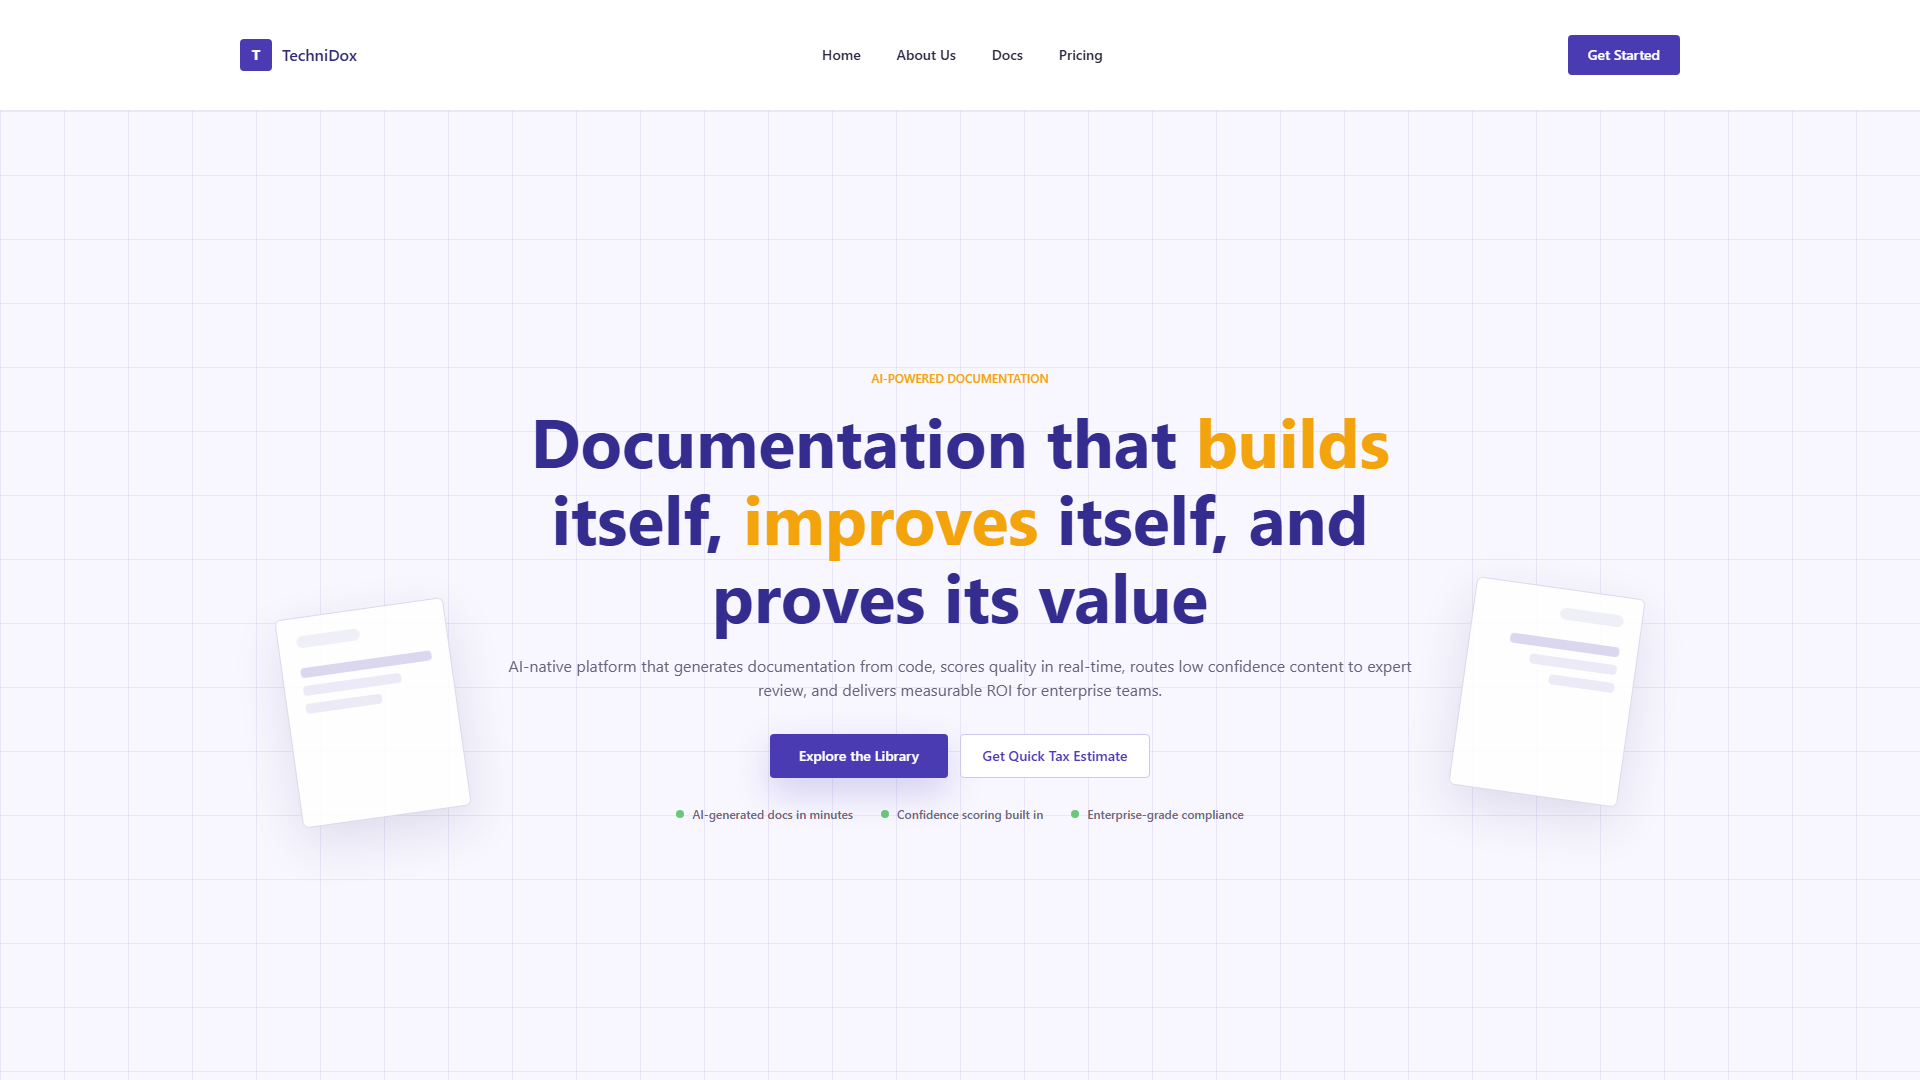
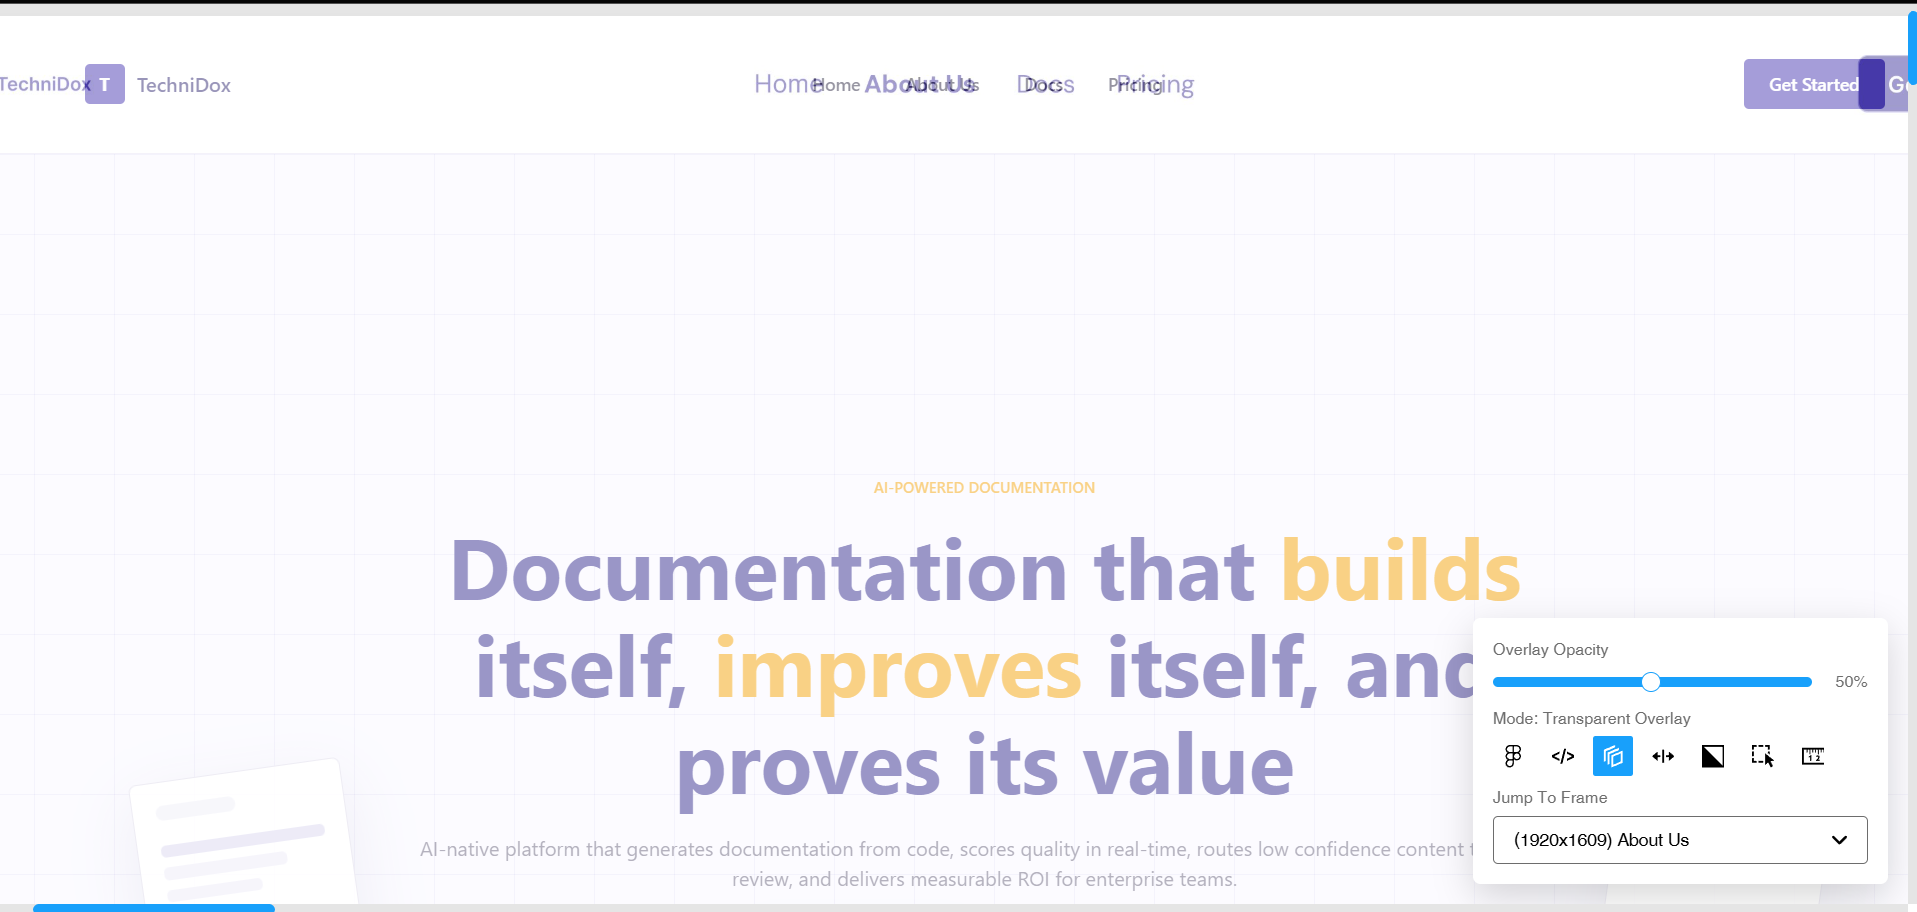
Update README with deployed URL and modify pixelay desktop image

diff --git a/README.md b/README.md
@@ -18,7 +18,7 @@ npm run preview
 
 ## Hosted URL
 
-TODO: Add deployed URL after publishing to GitHub Pages, Firebase Hosting, Netlify, Vercel, or another free host.
+https://endearing-sopapillas-13c10b.netlify.app/
 
 ## Netlify Deployment
 